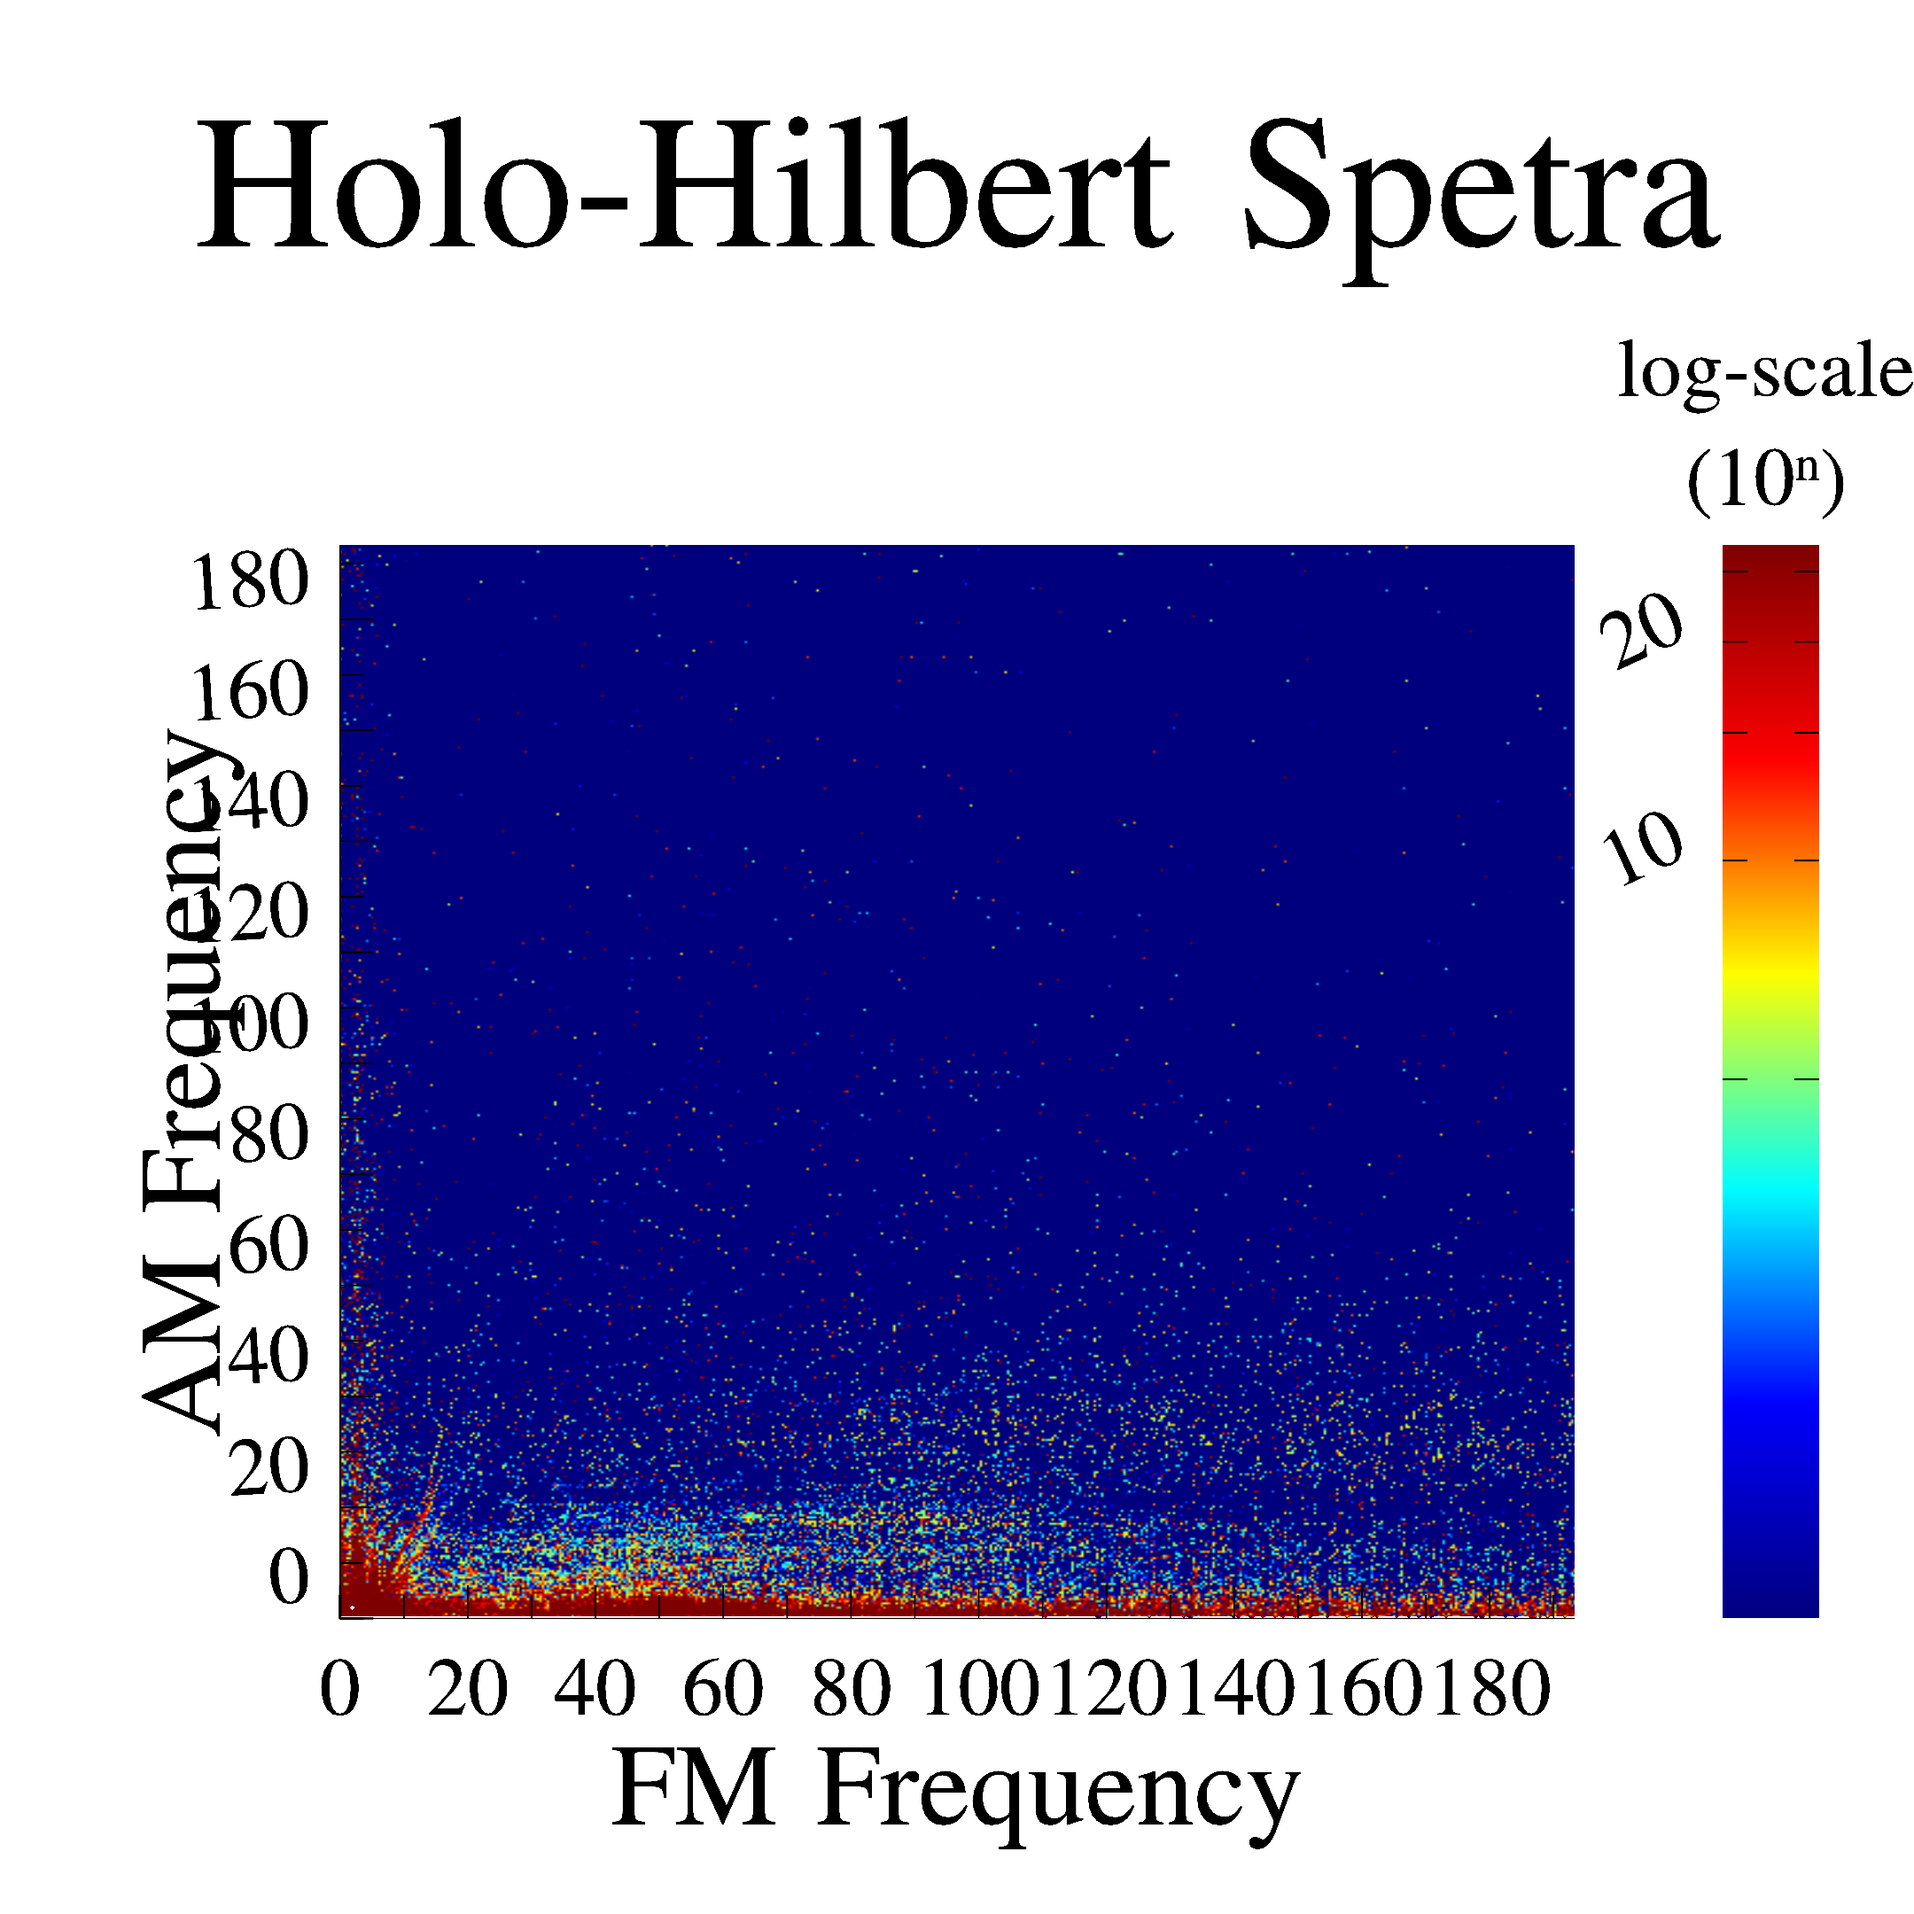
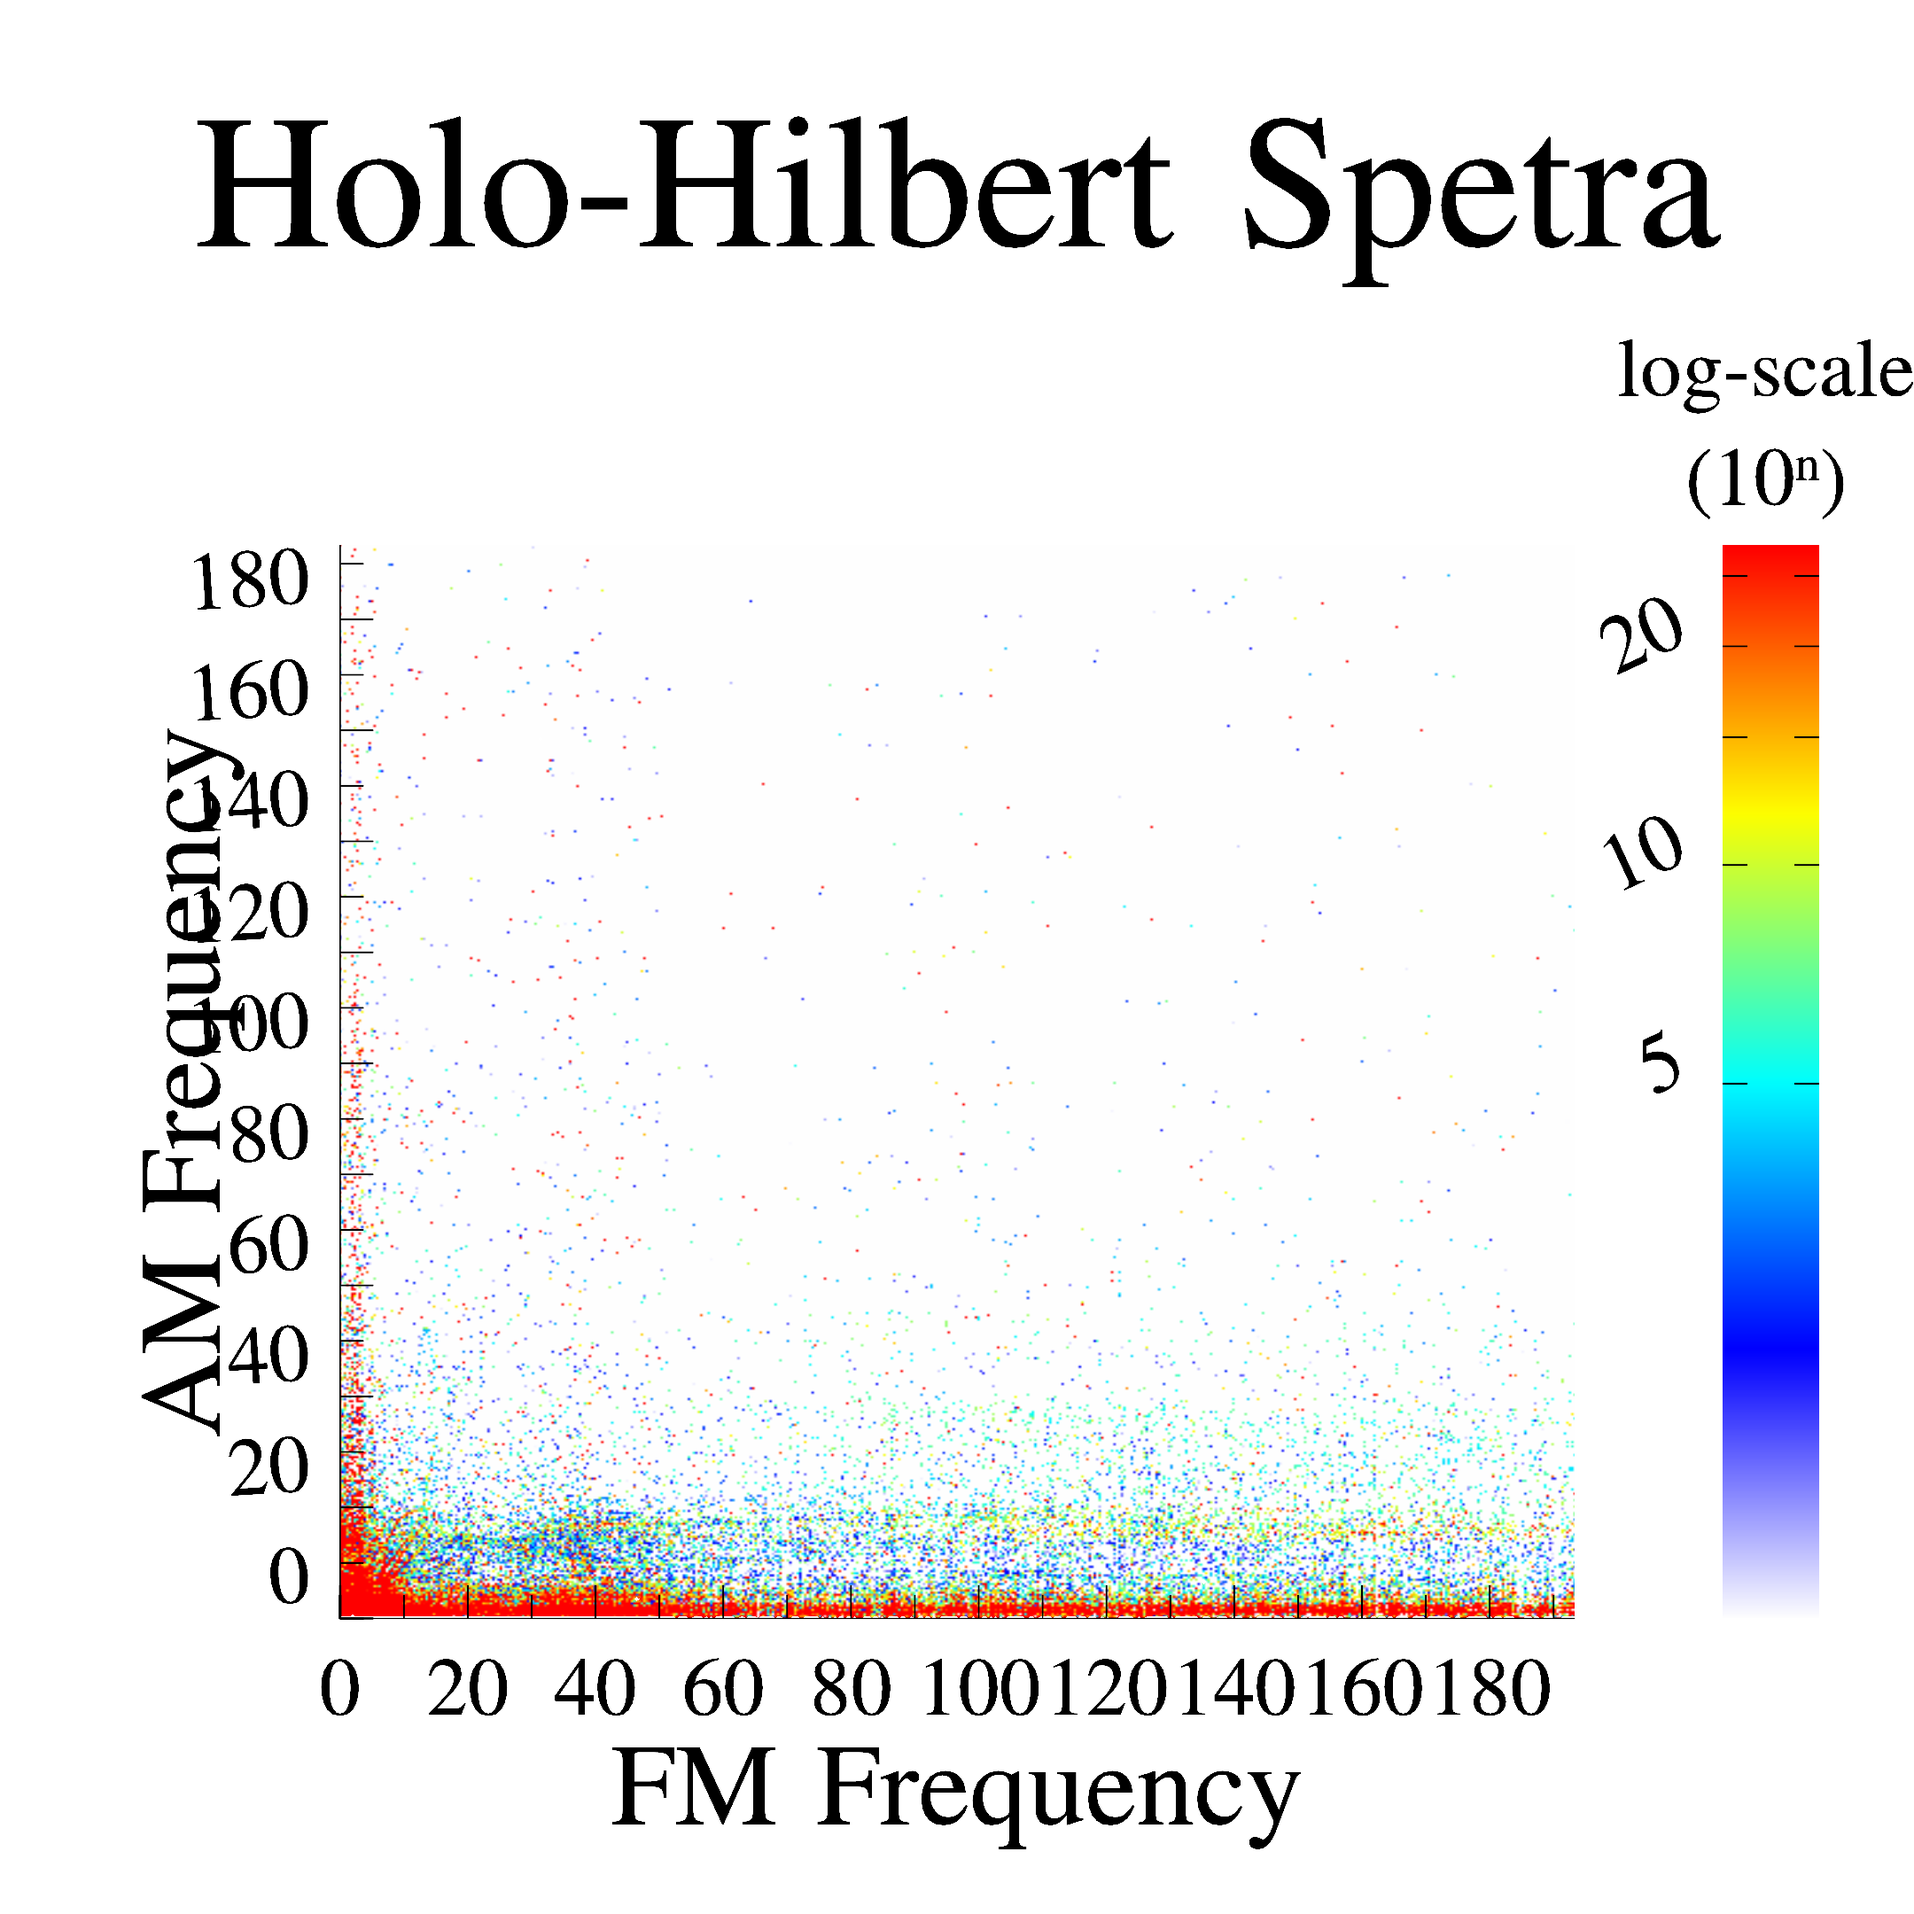
using "wbcyr" as plot color

diff --git a/HHSA_CPU_OpenMP/HHSA_CPU_OpenMP.cpp b/HHSA_CPU_OpenMP/HHSA_CPU_OpenMP.cpp
@@ -970,8 +970,8 @@ int main(int argc, char* argv[]) {
 	HSA_gr.Label('y', "Frequency", 0);
 	HSA_gr.SetRange('c', HSA_min, log(HSA_max));
 	HSA_gr.SetFunc("", "", "", "lg(c)");
-	HSA_gr.Dens(HSA_map);
-	HSA_gr.Colorbar(">");
+	HSA_gr.Dens(HSA_map, "wbcyr");
+	HSA_gr.Colorbar("wbcyr>");
 	HSA_gr.Puts(mglPoint(1.32, 1.22), "log-scale\n(10^n)");
 	HSA_gr.SetRange('x', 0.0, max_time);
 	HSA_gr.SetRange('y', 0.0, max_frequency);
@@ -1154,8 +1154,8 @@ int main(int argc, char* argv[]) {
 	HHS_gr.Label('y', "AM Frequency", 0);
 	HHS_gr.SetRange('c', HHS_min, log(HHS_max));
 	HHS_gr.SetFunc("", "", "", "lg(c)");
-	HHS_gr.Dens(HHS_map);
-	HHS_gr.Colorbar(">");
+	HHS_gr.Dens(HHS_map, "wbcyr");
+	HHS_gr.Colorbar("wbcyr>");
 	HHS_gr.Puts(mglPoint(18.0, 220.0), "log-scale\n(10^n)");
 	HHS_gr.SetRange('x', 0.0, max_FM_frequency);
 	HHS_gr.SetRange('y', 0.0, max_AM_frequency);
@@ -1268,7 +1268,7 @@ int main(int argc, char* argv[]) {
 	//HHSA_gr.Box();
 	//HHSA_gr.SetOrigin(max_time/2.0,max_FM_frequency/2.0,max_AM_frequency/2.0);
 	HHSA_gr.Dots(HHSA_3D_x, HHSA_3D_y, HHSA_3D_z, HHSA_3D_a);
-	HHSA_gr.Colorbar(">");
+	HHSA_gr.Colorbar("wbcyr>");
 	//HHSA_gr.Puts(mglPoint(Time_cell, Freq_cell*1.3, 0),"log-scale\n(10^n)");
 	//HHSA_gr.Puts(mglPoint(Time_cell*0.5, 0, -Holo_Freq_cell*0.25), "Time");
 	//HHSA_gr.Puts(mglPoint(0, Freq_cell*0.5, Holo_Freq_cell*1.25), "FMfreq");
@@ -1325,8 +1325,8 @@ int main(int argc, char* argv[]) {
 		HHSA_animation_gr.Label('y', "AM Frequency", 0);
 		HHSA_animation_gr.SetRange('c', HHSA_min, log(HHSA_max));
 		HHSA_animation_gr.SetFunc("", "", "", "lg(c)");
-		HHSA_animation_gr.Dens(HHSA_map);
-		HHSA_animation_gr.Colorbar(">");
+		HHSA_animation_gr.Dens(HHSA_map, "wbcyr");
+		HHSA_animation_gr.Colorbar("wbcyr>");
 		HHSA_animation_gr.SetRange('x', -1.0, 1.0);
 		HHSA_animation_gr.SetRange('y', -1.0, 1.0);
 		HHSA_animation_gr.Puts(mglPoint(1.35, 1.2), "log-scale\n(10^n)");
